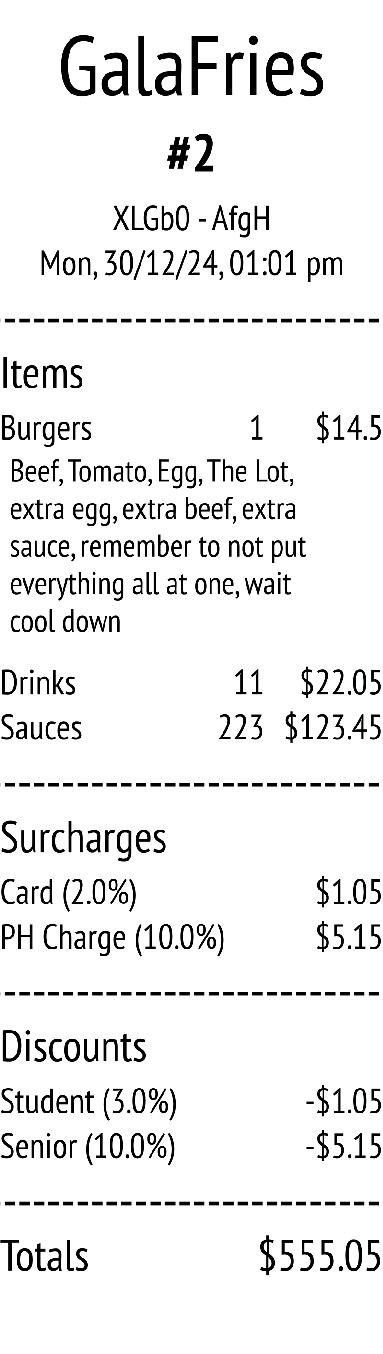
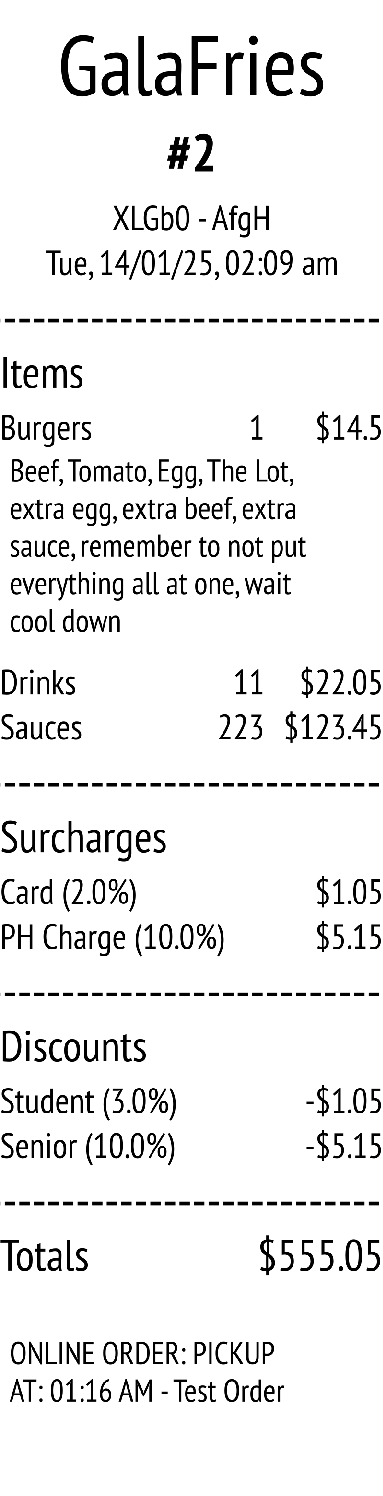
feat: print note

diff --git a/src/modules/render.ts b/src/modules/render.ts
@@ -192,6 +192,25 @@ export function addChargeRow(
   yPosition.value += getCurrentPxSize(60) * VERTICAL_SPACE_RATIO;
 }
 
+export function addNoteRow(
+  canvas: Canvas,
+  yPosition: { value: number },
+  note?: string,
+) {
+  if (note) {
+    const ctx = canvas.getContext('2d');
+    ctx.fillStyle = 'black';
+    ctx.font = `${getCurrentPxSize(36)}px ${FONT}`;
+    for (const line of breakSpaceToLine(note, 25)) {
+      ctx.textAlign = 'left';
+      ctx.textBaseline = 'top';
+      ctx.fillText(line, 20, yPosition.value);
+      yPosition.value += getCurrentPxSize(50) * VERTICAL_SPACE_RATIO;
+    }
+    yPosition.value += getCurrentPxSize(30) * VERTICAL_SPACE_RATIO;
+  }
+}
+
 export type ReceiptData = {
   title: string;
   id: string;
@@ -212,6 +231,7 @@ export type ReceiptData = {
     price: string;
   }[],
   totals: string;
+  note?: string;
 };
 
 export async function renderReceipt(
@@ -261,6 +281,9 @@ export async function renderReceipt(
   }
   addSplitter(canvas, yPosition);
   addHeadingRow(canvas, yPosition, 'Totals', `$${data.totals}`);
+  yPosition.value += getCurrentPxSize(50) + VERTICAL_SPACE_RATIO;
+
+  addNoteRow(canvas, yPosition, data.note);
   yPosition.value += getCurrentPxSize(50) + VERTICAL_SPACE_RATIO;
 
   const croppedCanvas = createCanvas(canvas.width, yPosition.value + PADDING);
@@ -368,6 +391,7 @@ renderReceipt(
       },
     ],
     totals: '555.05',
+    note: 'ONLINE ORDER: PICKUP AT: 01:16 AM - Test Order'
   },
   true,
 )

diff --git a/src/modules/square.ts b/src/modules/square.ts
@@ -238,5 +238,6 @@ export function mapOrderToReceiptData(
       price: (Number(discount.appliedMoney?.amount || 0) / 100).toFixed(2),
     })),
     totals: (Number(order.totalMoney?.amount || 0) / 100).toFixed(2),
+    note: order.metadata?.note || ''
   };
 }
